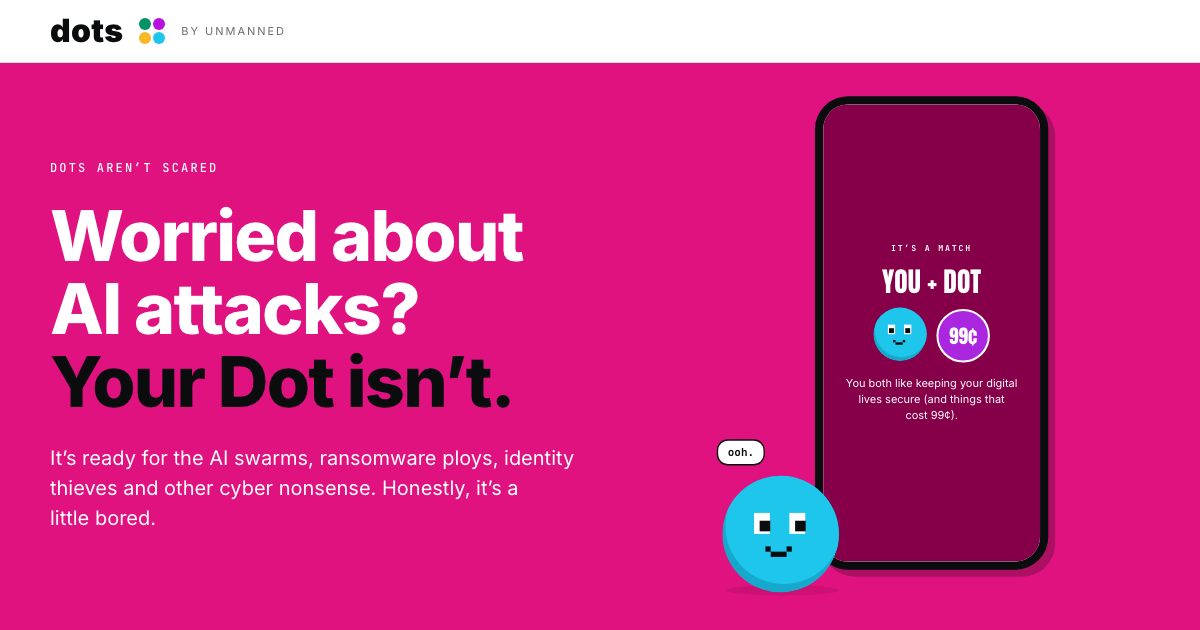
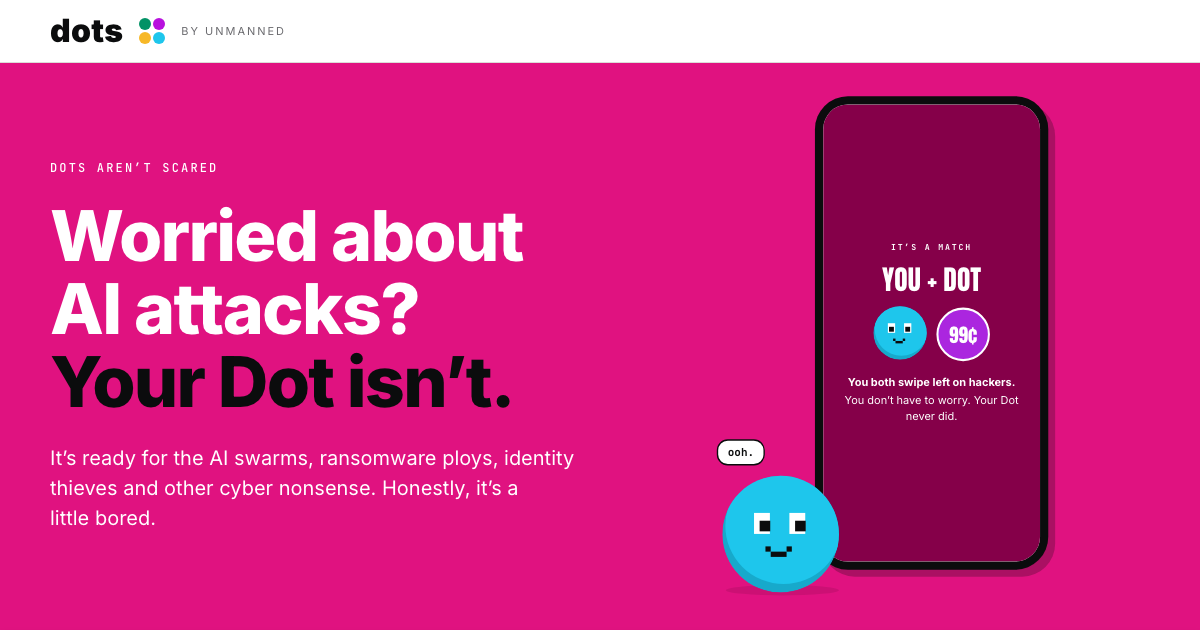
Not worried: Cards stamp HANDLED and the match screen says you both swipe left on hackers

Changed region(s): [[0.74, 0.4222, 0.8325, 0.573], [0.7092, 0.6032, 0.8633, 0.6635]]

diff --git a/website/exp/dots-not-worried/index.html b/website/exp/dots-not-worried/index.html
@@ -237,7 +237,7 @@
   }
 
   /* ==================== THIS PAGE’S HERO ==================== */
-  /* 04 · Your Dot isn't worried: threat intel as a dating app. The Dot swipes left on four threats ("boring.")
+  /* 04 · Your Dot isn't worried: threat intel as a dating app. The Dot swipes left on four threats ("boring.", stamped HANDLED)
      and right on Dot Karaoke Night. It's a match. Loops while in view. */
   .hnw{background:#e01280;color:#fff;}
   .hnw .eyebrow{color:#fff;font-weight:500;letter-spacing:0.18em;}
@@ -269,6 +269,7 @@
   .hnw-match small{font-family:var(--mono);font-size:12px;font-weight:700;letter-spacing:0.22em;}
   .hnw-match b{font-family:var(--anton);font-weight:400;font-size:40px;line-height:1.02;}
   .hnw-match p{font-size:16px;line-height:1.45;}
+  .hnw-match p strong{display:block;margin-bottom:4px;font-weight:700;text-wrap:balance;}
   /* the replay lives in the app: a black box where a message field would sit. It's scaled with the phone, so the type is
      large in scene pixels and ::before stretches the tap area to about 44px on phones. Off until the match shows. */
   .hnw-again{position:absolute;left:36px;right:16px;bottom:22px;height:60px;box-sizing:border-box;display:flex;align-items:center;justify-content:space-between;padding:0 16px;background:#0b0c0d;color:var(--pink);border:0;border-radius:6px;font:600 20px/1 var(--font-sans,Inter),sans-serif;text-align:left;cursor:pointer;}
@@ -389,12 +390,12 @@
                     <i id="hnw-no" style="background:#dc2626"><svg width="24" height="24" viewBox="0 0 24 24" fill="none" stroke="#fff" stroke-width="2.5" stroke-linecap="round"><path d="M6 6l12 12M18 6L6 18"/></svg></i>
                     <i id="hnw-yes" style="background:#029266"><svg width="24" height="24" viewBox="0 0 24 24" fill="none" stroke="#fff" stroke-width="2.5" stroke-linecap="round" stroke-linejoin="round"><path d="M5 12.5l4.5 4.5L19 7.5"/></svg></i>
                   </div>
-                  <p class="hnw-hint" aria-hidden="true">LEFT: BORING · RIGHT: NEEDS ATTENTION</p>
+                  <p class="hnw-hint" aria-hidden="true">LEFT: HANDLED · RIGHT: NEEDS ATTENTION</p>
                   <div class="hnw-match" id="hnw-match">
                     <small aria-hidden="true">IT’S A MATCH</small>
                     <b aria-hidden="true">YOU + DOT</b>
                     <div class="hnw-pair" aria-hidden="true"><svg class="dot" data-dot='{"color":"#1ec6ec","shade":"#17a9cb","mood":"happy","floor":false}'></svg><i>99¢</i></div>
-                    <p aria-hidden="true">You both like keeping your digital lives secure (and things that cost 99¢).</p>
+                    <p aria-hidden="true"><strong>You both swipe left on hackers.</strong> You don’t have to worry. Your Dot never did.</p>
                     <button class="hnw-again" type="button" id="hnw-again" aria-label="Swipe again: replay the animation" disabled>Swipe again<svg viewBox="0 0 24 24" fill="none" stroke="currentColor" stroke-width="2" aria-hidden="true"><path d="M3 12a9 9 0 1 0 3-6.7"/><path d="M3 4v5h5"/></svg></button>
                   </div>
                 </div>
@@ -859,7 +860,7 @@
         el.className = 'hnw-card';
         el.style.zIndex = 20 - k;
         el.innerHTML = '<div class="hnw-pic" style="background:' + c.bg + '">' + PICS[c.type] +
-          '<span class="hnw-stamp" style="left:' + (c.last ? 54 : 20) + 'px;transform:rotate(' + (c.last ? 12 : -14) + 'deg);border-color:' + col + ';color:' + col + '">' + (c.last ? 'NEEDS ATTENTION' : 'BORING') + '</span></div>' +
+          '<span class="hnw-stamp" style="left:' + (c.last ? 54 : 20) + 'px;transform:rotate(' + (c.last ? 12 : -14) + 'deg);border-color:' + col + ';color:' + col + '">' + (c.last ? 'NEEDS ATTENTION' : 'HANDLED') + '</span></div>' +
           '<div class="hnw-info"><small>' + c.label + '</small><b>' + c.title + '</b><p>' + c.bio + '</p><small class="hnw-level">' + c.mlabel + '</small><em style="color:' + (c.last ? '#029266' : '#e5484d') + '">' + c.meter + '</em></div>';
         deck.appendChild(el);
         c.el = el; c.stampEl = el.querySelector('.hnw-stamp');
